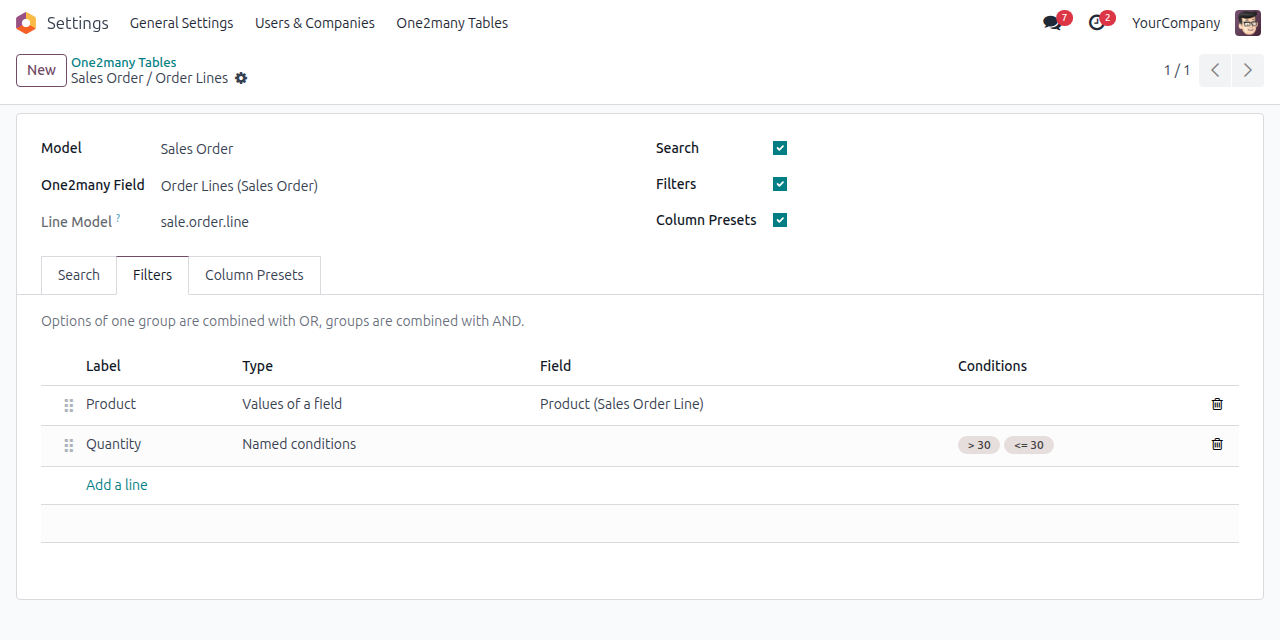
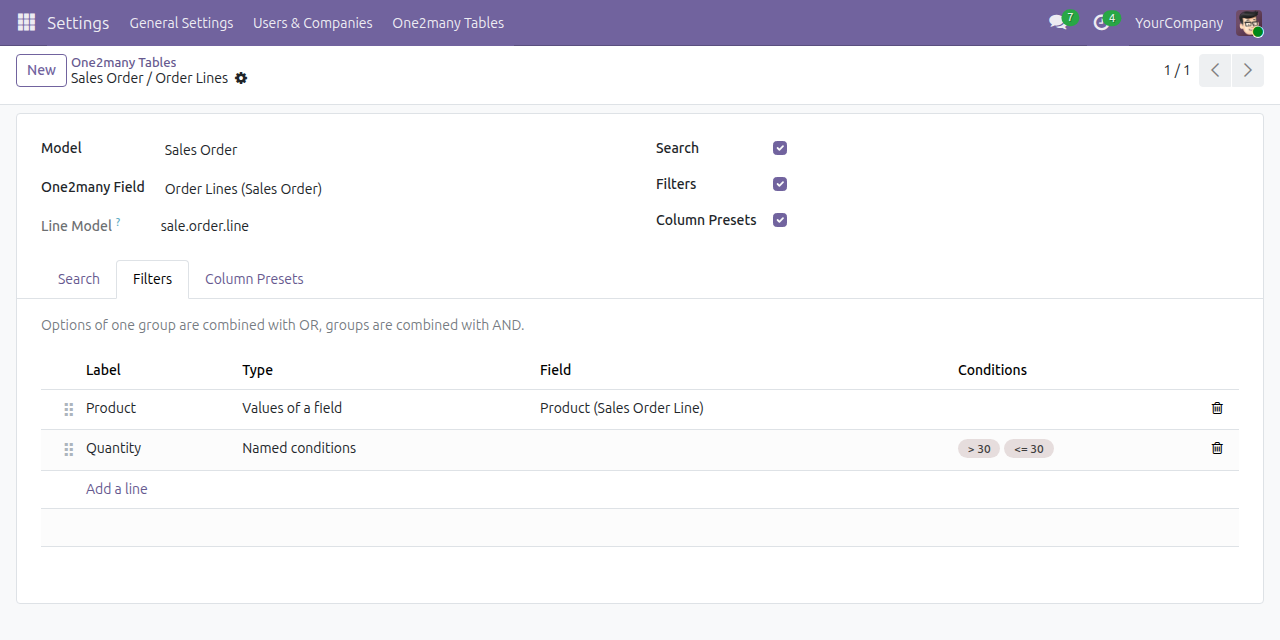
feat(web_o2m_tools): port to Odoo 19.0

diff --git a/web_o2m_tools/static/src/core/static_list_patch.js b/web_o2m_tools/static/src/core/static_list_patch.js
@@ -1,6 +1,13 @@
-import { StaticList } from "@web/model/relational_model/static_list";
+import { toRaw } from "@odoo/owl";
 import { x2ManyCommands } from "@web/core/orm_service";
 import { patch } from "@web/core/utils/patch";
+import { StaticList } from "@web/model/relational_model/static_list";
+
+/**
+ * Lists for which `currentIds` must temporarily return the displayed ids only
+ * (see `_applyCommands`). Kept outside the reactive list to avoid re-renders.
+ */
+const visibleOnly = new WeakSet();
 
 /**
  * Line filtering on StaticList.
@@ -17,7 +24,7 @@ import { patch } from "@web/core/utils/patch";
 patch(StaticList.prototype, {
     get currentIds() {
         const ids = super.currentIds;
-        if (!this._o2mFilter) {
+        if (!this._o2mFilter || visibleOnly.has(toRaw(this))) {
             return ids;
         }
         return [...ids, ...this._o2mFilter.hiddenIds];
@@ -106,19 +113,35 @@ patch(StaticList.prototype, {
     },
 
     _applyCommands(commands) {
-        const result = super._applyCommands(...arguments);
         if (this._o2mFilter) {
-            const { DELETE, UNLINK } = x2ManyCommands;
-            const removed = new Set(
-                commands.filter((c) => c[0] === DELETE || c[0] === UNLINK).map((c) => c[1])
-            );
-            if (removed.size) {
-                this._o2mFilter.hiddenIds = this._o2mFilter.hiddenIds.filter(
-                    (id) => !removed.has(id)
+            const { CLEAR, DELETE, LINK, SET, UNLINK } = x2ManyCommands;
+            if (commands.some((c) => c[0] === CLEAR || c[0] === SET)) {
+                // The whole relation is replaced by the given lines.
+                this._o2mFilter.hiddenIds = [];
+            } else {
+                // Removed lines are gone, (re)linked lines are displayed.
+                const changed = new Set(
+                    commands
+                        .filter((c) => [DELETE, UNLINK, LINK].includes(c[0]))
+                        .map((c) => c[1])
                 );
+                if (changed.size) {
+                    this._o2mFilter.hiddenIds = this._o2mFilter.hiddenIds.filter(
+                        (id) => !changed.has(id)
+                    );
+                }
             }
         }
-        return result;
+        // Odoo builds the next list from `this.currentIds`, which includes the
+        // hidden lines while filtering: expose the displayed ones only. It is
+        // read synchronously, before the first await.
+        const raw = toRaw(this);
+        visibleOnly.add(raw);
+        try {
+            return super._applyCommands(...arguments);
+        } finally {
+            visibleOnly.delete(raw);
+        }
     },
 
     _addSavePoint() {
@@ -142,5 +165,33 @@ patch(StaticList.prototype, {
             this._o2mFilter.sorted = true;
         }
         return super._sortBy(...arguments);
+    },
+
+    _sort(currentIds, orderBy) {
+        // Odoo sorts `this.currentIds` by default, which includes the hidden lines.
+        if (currentIds === undefined && this._o2mFilter) {
+            currentIds = this._currentIds;
+        }
+        return super._sort(currentIds, orderBy);
+    },
+
+    async _resequence() {
+        if (this._o2mFilter) {
+            // Renumbering the displayed lines only would collide with the hidden
+            // ones (e.g. a line inserted inside a section): keep the sequences.
+            return;
+        }
+        return super._resequence(...arguments);
+    },
+
+    async delete() {
+        await super.delete(...arguments);
+        // Odoo reloads the previous page when the last one becomes empty, based on
+        // `count`, which includes the hidden lines while filtering.
+        if (this._o2mFilter && !this.records.length && this.offset > 0) {
+            await this.model.mutex.exec(() =>
+                this._load({ offset: Math.max(this.offset - this.limit, 0) })
+            );
+        }
     },
 });

diff --git a/web_o2m_tools/static/description/index.html b/web_o2m_tools/static/description/index.html
@@ -96,7 +96,8 @@
             <li>Access rights and record rules are respected: users only search lines they are allowed to read.</li>
             <li>Search and filters are locked while the form has unsaved changes, and are not available on new
                 records. Save first, then filter.</li>
-            <li>Drag and drop reordering is disabled while a filter is active, so the line order stays correct.</li>
+            <li>Drag and drop reordering, and the section actions of sales and invoice lines (add a line in a
+                section, move, duplicate), are disabled while a filter is active, so the line order stays correct.</li>
             <li>List view only (not the kanban view used for one2many tables on mobile).</li>
             <li>After changing a configuration, users need to reload the page.</li>
             <li>Depends only on <code>web</code>. English and Vietnamese translations included.</li>

diff --git a/web_o2m_tools/static/src/x2many/o2m_search_bar.scss b/web_o2m_tools/static/src/x2many/o2m_search_bar.scss
@@ -10,3 +10,9 @@
     max-height: 60vh;
     overflow-y: auto;
 }
+
+// Section actions (insert, move, duplicate, delete a section) work on the
+// displayed lines only: hide them while a filter is active.
+.o_x2m_control_panel:has(.o_web_o2m_filtered) ~ .o_list_renderer .o_list_section_options > * {
+    visibility: hidden;
+}

diff --git a/web_o2m_tools/models/web_o2m_config.py b/web_o2m_tools/models/web_o2m_config.py
@@ -1,6 +1,6 @@
 from odoo import _, api, fields, models, tools
 from odoo.exceptions import UserError, ValidationError
-from odoo.osv import expression
+from odoo.fields import Domain
 
 SEARCH_FIELD_TYPES = ('char', 'text', 'html', 'many2one', 'selection')
 FILTER_FIELD_TYPES = ('char', 'selection', 'many2one', 'boolean')
@@ -35,9 +35,7 @@ class WebO2mConfig(models.Model):
     filter_ids = fields.One2many('web.o2m.filter', 'config_id', string='Filter Groups', copy=True)
     enable_column_preset = fields.Boolean(string='Column Presets', default=True)
 
-    _sql_constraints = [
-        ('field_uniq', 'unique(field_id)', 'This one2many field is already configured.'),
-    ]
+    _field_uniq = models.Constraint('unique(field_id)', 'This one2many field is already configured.')
 
     @api.depends('model_id.name', 'field_id.field_description')
     def _compute_name(self):
@@ -136,14 +134,12 @@ class WebO2mConfig(models.Model):
         :param filters: ``{filter_id (str|int): [option keys]}``
         """
         config, lines = self._o2m_get_lines(model, res_id, field_name)
-        domain = [('id', 'in', lines.ids)]
+        domain = Domain('id', 'in', lines.ids)
         python_checks = []
 
         search = (search or '').strip()
         if search and config.enable_search and config.search_field_ids:
-            domain = expression.AND([domain, expression.OR([
-                [(field.name, 'ilike', search)] for field in config.search_field_ids
-            ])])
+            domain &= Domain.OR(Domain(field.name, 'ilike', search) for field in config.search_field_ids)
 
         if config.enable_filter:
             for filter_id, keys in (filters or {}).items():
@@ -152,7 +148,7 @@ class WebO2mConfig(models.Model):
                     continue
                 group_domain, python_check = group._get_selection_domain(keys)
                 if group_domain is not None:
-                    domain = expression.AND([domain, group_domain])
+                    domain &= group_domain
                 if python_check:
                     python_checks.append(python_check)
 

diff --git a/web_o2m_tools/models/web_o2m_filter.py b/web_o2m_tools/models/web_o2m_filter.py
@@ -2,7 +2,7 @@ from collections import Counter
 
 from odoo import _, api, fields, models
 from odoo.exceptions import ValidationError
-from odoo.osv import expression
+from odoo.fields import Domain
 
 from .web_o2m_config import FILTER_FIELD_TYPES, _facet_key
 
@@ -127,7 +127,7 @@ class WebO2mFilter(models.Model):
             options = self.option_ids.filtered(lambda o: o.id in {int(k) for k in keys})
             if not options:
                 return None, None
-            return expression.OR([option._get_domain() for option in options]), None
+            return Domain.OR(Domain(option._get_domain()) for option in options), None
 
         field_name = self.field_id.name
         field = self.env[self.config_id.comodel]._fields[field_name]
@@ -138,9 +138,9 @@ class WebO2mFilter(models.Model):
                 values = [k for k in keys if k]
             domains = []
             if values:
-                domains.append([(field_name, 'in', values)])
+                domains.append(Domain(field_name, 'in', values))
             if False in keys:
-                domains.append([(field_name, '=', False)])
-            return expression.OR(domains), None
+                domains.append(Domain(field_name, '=', False))
+            return Domain.OR(domains), None
         key_set = set(keys)
         return None, lambda line: _facet_key(field, line[field_name]) in key_set

diff --git a/web_o2m_tools/models/web_o2m_filter_option.py b/web_o2m_tools/models/web_o2m_filter_option.py
@@ -1,5 +1,6 @@
 from odoo import _, api, fields, models
 from odoo.exceptions import ValidationError
+from odoo.fields import Domain
 from odoo.tools.safe_eval import datetime, dateutil, safe_eval
 
 
@@ -43,4 +44,4 @@ class WebO2mFilterOption(models.Model):
         self.ensure_one()
         if not lines:
             return 0
-        return lines.search_count([('id', 'in', lines.ids)] + self._get_domain())
+        return lines.search_count(Domain('id', 'in', lines.ids) & Domain(self._get_domain()))

diff --git a/web_o2m_tools/__manifest__.py b/web_o2m_tools/__manifest__.py
@@ -2,7 +2,7 @@
     'name': 'One2many Table Tools: Search, Filters & Column Presets',
     'summary': 'Search and filter the lines of one2many tables inside forms, '
                'and save per-user column presets',
-    'version': '18.0.1.0.0',
+    'version': '19.0.1.0.0',
     'category': 'Productivity',
     'author': 'Gout',
     'maintainer': 'Gout',

diff --git a/README.md b/README.md
@@ -1,11 +1,11 @@
-# One2many Table Tools (Odoo 18)
+# One2many Table Tools (Odoo 19)
 
 Search, filter and choose columns in the one2many tables of your forms: sales order lines,
 invoice lines, or any other line table. You choose which tables get these tools.
 
 | Module | Version | Description |
 |---|---|---|
-| [web_o2m_tools](web_o2m_tools) | 18.0.1.0.0 | Search and filter one2many lines, save per-user column presets |
+| [web_o2m_tools](web_o2m_tools) | 19.0.1.0.0 | Search and filter one2many lines, save per-user column presets |
 
 ## Features
 
@@ -30,7 +30,8 @@ Users need to reload the page after a configuration change.
 ## Limitations
 
 - Search and filters are locked while the form has unsaved changes, and are hidden on new records.
-- Drag and drop reordering is disabled while a filter is active.
+- Drag and drop reordering and the section actions of sales and invoice lines (add a line in a
+  section, move, duplicate) are disabled while a filter is active.
 - List view only (not the kanban view used for one2many tables on mobile).
 - Presets cover optional columns only.
 
